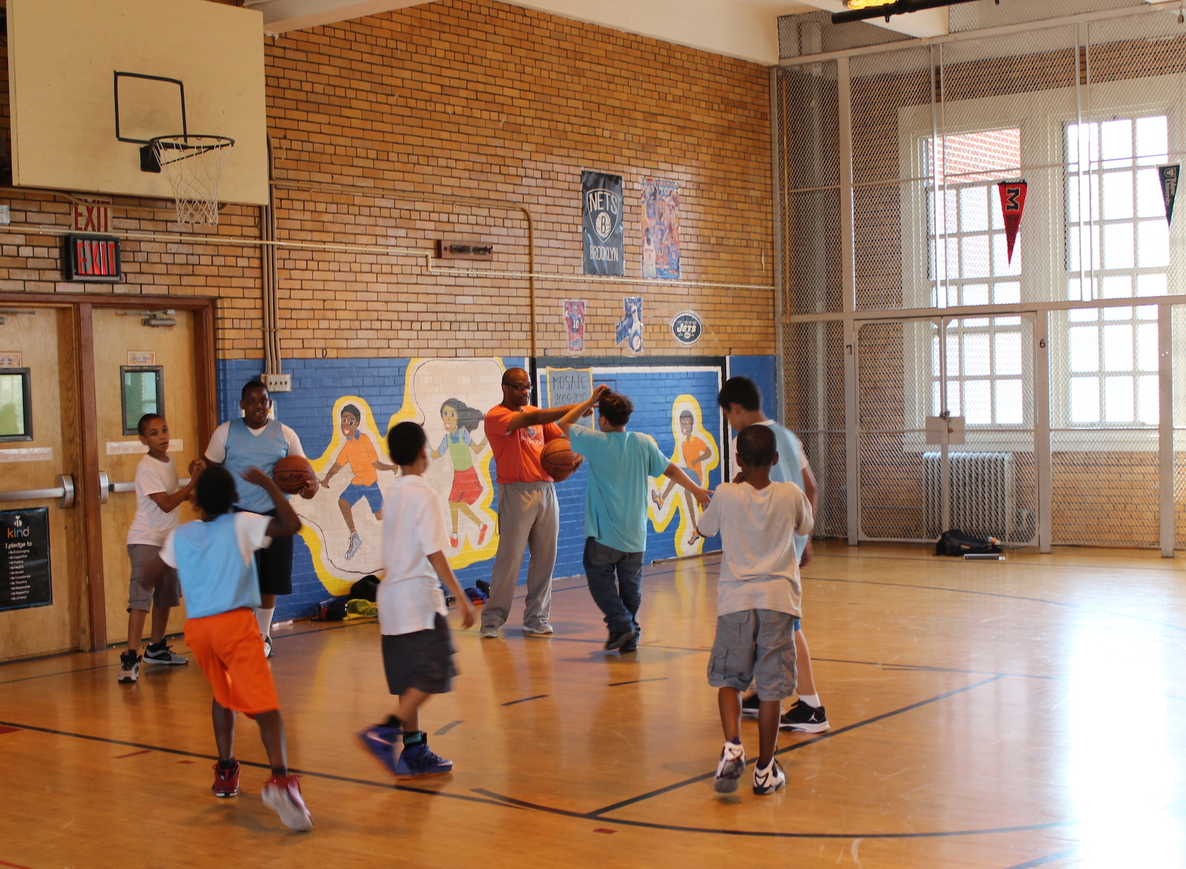
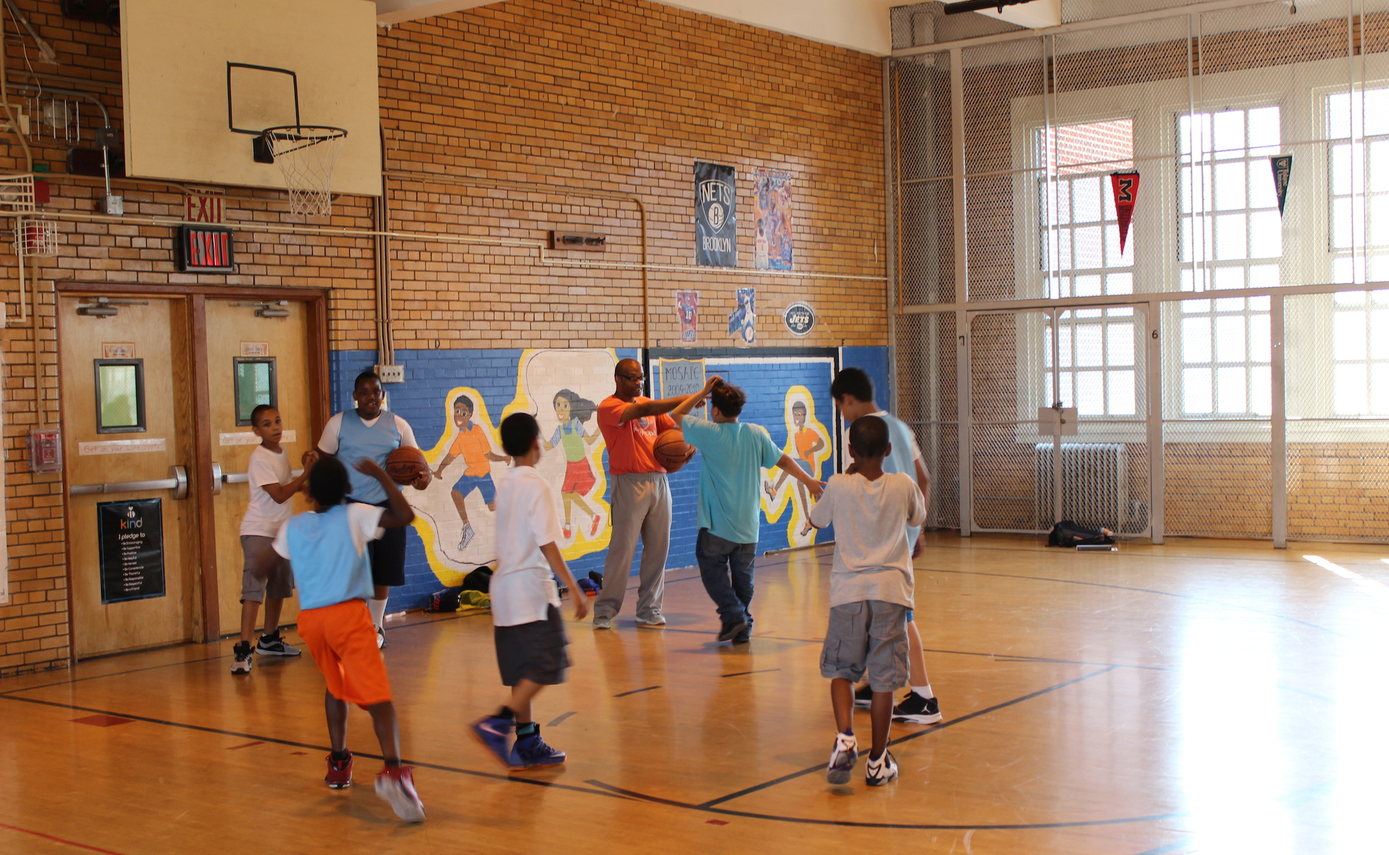
new home image

diff --git a/stylesheets/styles.css b/stylesheets/styles.css
@@ -111,7 +111,7 @@ body {
 }
 
 .text .home_image {
-  width: 35%;
+  width: 40%;
   float: left;
   text-align: right;
   margin-left: 5%;
